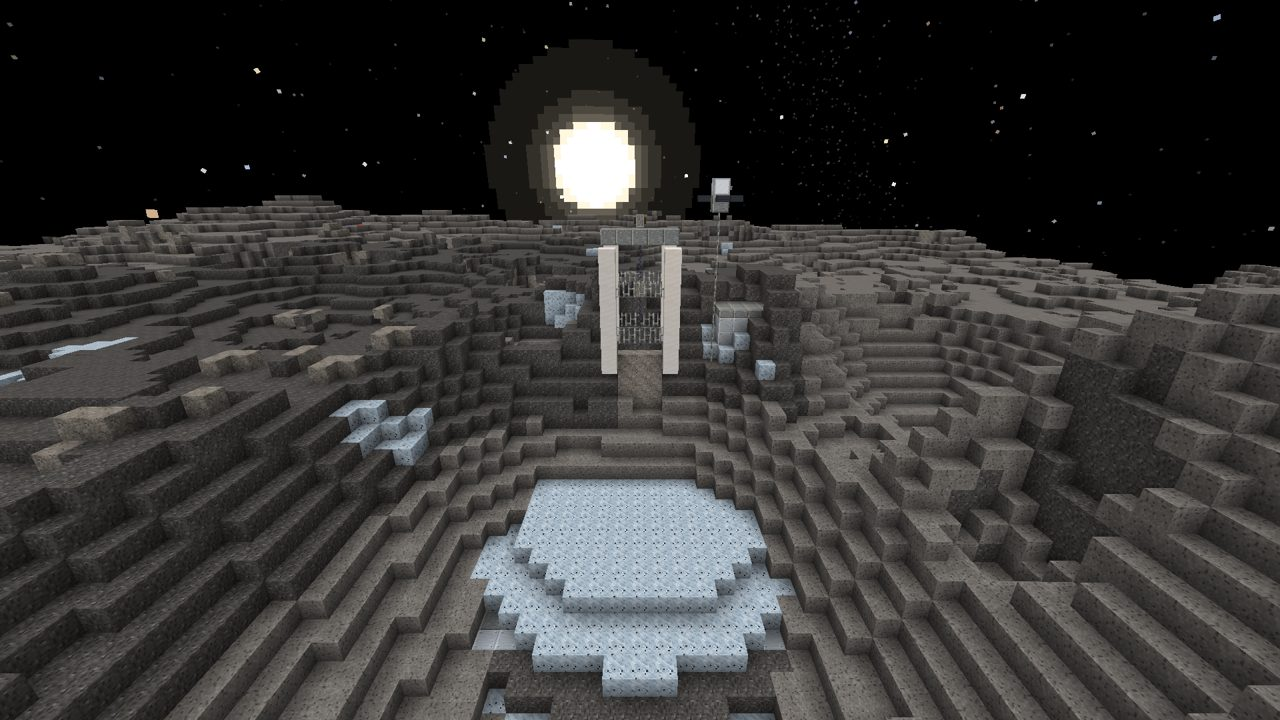
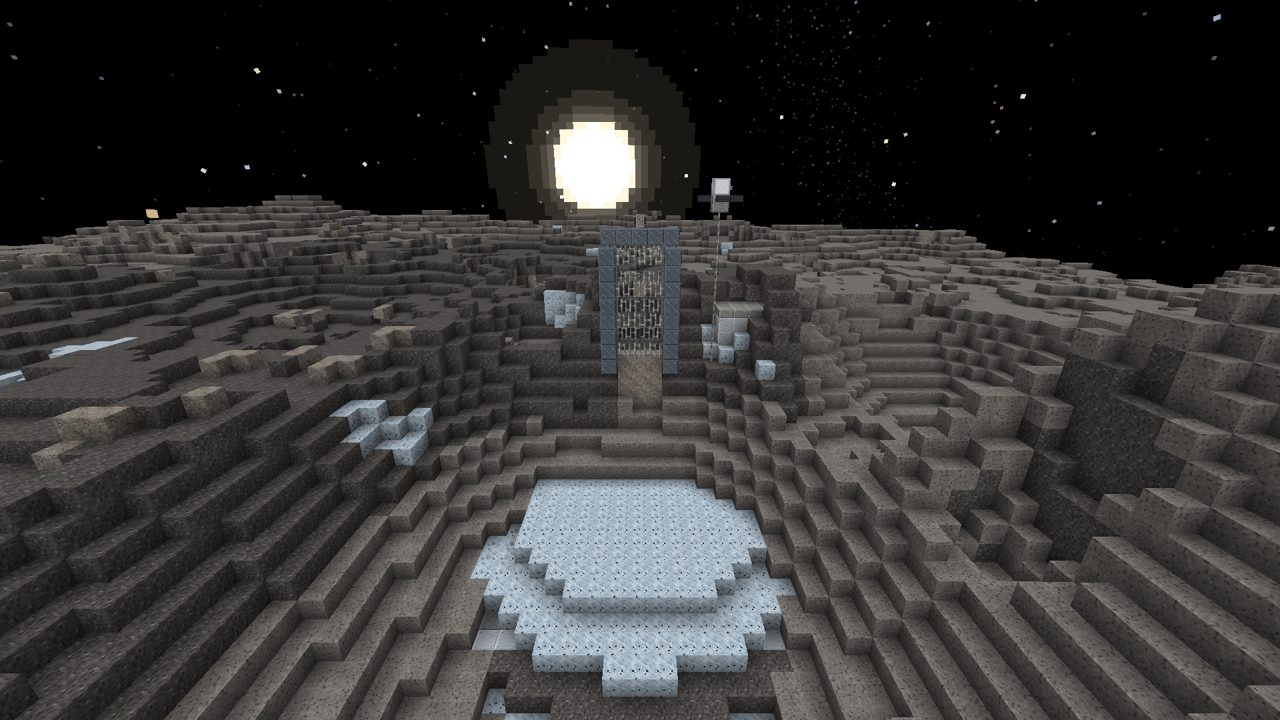
Ice mine head frame: steel posts and a denser lattice
The four pale posts read as quartz columns from afar; they are now grey steel plate with braces every two blocks, so the pithead reads as a mine tower.

Changed region(s): [[0.4688, 0.3056, 0.5312, 0.5194]]

diff --git a/docs/CONTENT.md b/docs/CONTENT.md
@@ -195,7 +195,7 @@ Her içerik paketi gerçek istemcide vitrin dünyasında fotoğraflanır; onayda
 |---|---|---|
 | 🎨 | Arazi | yoğun kraterler, loblu sarplıklar, düz ovalar, parlak oyuklar, kalıcı gölgeli kutup kraterlerinde buz; dev Güneş, 430 °C gündüz / −180 °C gece |
 | 🎨 | Bloklar | Merkür Regoliti, Oyuk Tortusu (kalıcı ayak izi), Merkür Kabuğu, Düşük Yansıtmalı Kaya, Grafit Cevheri (→ grafit), Merkür Kutup Buzu (gölgeli kraterlerde, grafit lekeli; `c:ices/water`) |
-| 🎨 | Zindan | Terk Edilmiş Kutup Buzu Madeni (gölgeli krater tabanının altında; yeniden tasarım: krater kenarından okunan soluk kafes kule ve makara, aşağı bakan ışıldaklı direk ve fener, kumanda kulübesi; galeride her 3 blokta çelik kemer, raylar, tavanda kablo kanalı, yanan/sönük LED'ler, toz katmanlı buz duvarlar; kesme yüzünde durmuş kesici ve kesilmiş buz blokları; eritme odasında tanklar, elektroliz cihazı ve boru hattı; Malzeme Dolapları; 'Son vardiya' tabelası) |
+| 🎨 | Zindan | Terk Edilmiş Kutup Buzu Madeni (gölgeli krater tabanının altında; yeniden tasarım: krater kenarından okunan çaprazlı çelik kafes kule ve makara, aşağı bakan ışıldaklı direk ve fener, kumanda kulübesi; galeride her 3 blokta çelik kemer, raylar, tavanda kablo kanalı, yanan/sönük LED'ler, toz katmanlı buz duvarlar; kesme yüzünde durmuş kesici ve kesilmiş buz blokları; eritme odasında tanklar, elektroliz cihazı ve boru hattı; Malzeme Dolapları; 'Son vardiya' tabelası) |
 | 🎨 | Gölge koridoru | havasız Merkür'de güneşle arandaki her katı blok gölge yapar: gündüz güneşte ≈430 °C, gölgede −60 °C (temel giysi dayanır); terminatöre yakın alçak güneşte uzun gölgelerle gündüz tarafı geçilebilir, öğlen gölgeyi sen kurarsın; girişte/çıkışta aksiyon çubuğunda sıcaklık |
 | 🎨 | 3:2 rezonansı: çift gün doğumu | gerçek 3:2 dönme–yörünge rezonansı ve e=0,206 yörünge (Kepler denklemi): günberide güneş gökte durup geri gider; bu dünya "ılık kutup" boylamında — güneş ufkun üstüne yarıya kadar çıkar, geri batar, yeniden doğar; gün uzunluğu (176 Dünya günü, oyunda sıkıştırılmış) korunur; güneş günberide 1,5 kat büyük ve parlak; gökyüzü, ışık, sıcaklık ve gölge aynı bükülmüş saati okur (`PlanetTime.addWarp`, yalnızca Merkür) |
 | 🎨 | Endüstri girdileri | kırıcıda: Oyuk Tortusu → kükürt; Venüs Kükürt Kabuğu → kükürt; Kimyasal Reaktörde grafit + O₂ → CO₂ (Merkür'de yerinde metaloks) |
